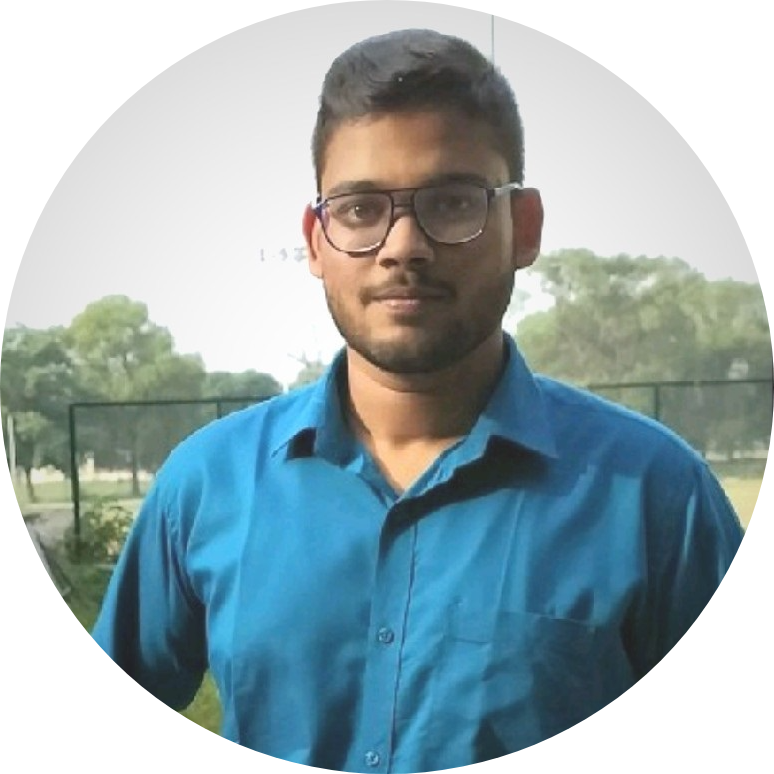
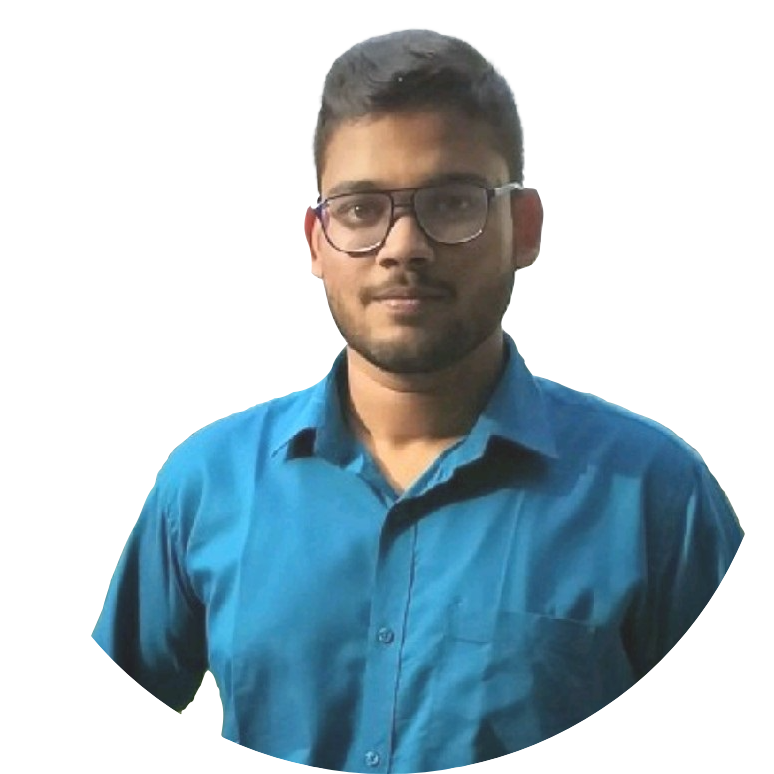
About me section Update

diff --git a/index.html b/index.html
@@ -142,7 +142,22 @@
     <section id="about-me">
         <div class="about-header">
             <h1>About Me</h1>
-            <div class="about-me-dec"><hr><i class="fas fa-star fa-2x" style="color: yellow;"></i><hr></div>
+            <div class="about-me-dec"><hr> <i class="fas fa-star fa-2x" style="color: rgb(255, 81, 0);"></i> <hr></div>
+        </div>
+        <div class="about-me-contents">
+            <img src="images/Mohim Singla.png" alt="">
+            <div class="about-me-textbox">
+                I am Mohim Singla, a hard-working guy currently pursuing my Bachelor's at <a href="https://pec.ac.in/">PEC, Chandigarh</a>. I'm aspiring to be a software developer and want to contribute to the IT industry as much as I'll be able in the upcoming years. I'm good at staying cool during intense situations and never show my back towards challenges. The best part about me is being Honest and taking up responsibilities of my actions. Well!!! last but not the least I'm a good listner and a polite person to be around.
+                <br>
+                <a href="https://github.com/Mohim-Singla"><i class="fab fa-github fa-2x"></i></a>
+                <a href="https://www.linkedin.com/in/mohim-singla-777b291a4"><i class="fab fa-linkedin fa-2x"></i></i></a>
+                <a href="mailto:mohimsingla@gmail.com"><i class="fab fa-google fa-2x"></i></a>
+                <a href="https://instagram.com/mohim__singla__/"><i class="fab fa-instagram fa-2x"></i></a>
+                <br>
+                <div class="intro intro1">
+                    <a href="#void" class="intro-button-2">| Contact Me |</a>
+                </div>
+            </div>
         </div>
     </section>
     <script src="https://ajax.googleapis.com/ajax/libs/jquery/3.2.1/jquery.min.js"></script>

diff --git a/about-me.css b/about-me.css
@@ -1,3 +1,74 @@
 #about-me{
     background: url('images/aboutbg.png') center no-repeat;
+    text-align: center;
+}
+.about-header h1{
+    font-size: 48px;
+    color: rgb(1, 119, 119);
+    padding-top: 3%;
+}
+.about-me-dec{
+    display: flex;
+    justify-content: center;
+    padding-bottom: 2%;
+}
+.about-header hr{
+    display: inline-block;
+    width: 20%;
+    height: 5px;
+    background:linear-gradient(rgba(255, 81, 0,0.7), rgba(9, 13, 31, 0.103));
+    align-self: center;
+}
+.about-me-contents{
+    display: flex;
+    align-items: center;
+    justify-content: space-evenly;
+    font-size: 25px;
+    text-align: justify;
+    text-align-last: center;
+    padding: 3%;
+    text-decoration: none;
+}
+a{
+    text-decoration: none;
+}
+.about-me-textbox{
+    color: darkorange;
+    font-weight: 500;
+    padding: 2%;
+    line-height: 30pt;
+}
+.about-me-contents img{
+    width: 40%;
+    padding: 2%;
+}
+.fab{
+    padding: 2%;
+}
+.intro1{
+    position: relative;
+}
+.intro-button-2{
+    display: inline-block;
+    text-decoration: none;
+    padding: 12px 13px;
+    margin: 0.7%;
+    background: transparent;
+    border: 3px solid #fff;
+    color: deepskyblue;
+}
+.intro-button-2:hover{
+    border: 2px solid tomato;
+    background: floralwhite;
+    transition: 0.5s ease-in;
+    color: forestgreen;
+}
+
+@media screen and (max-width: 500px) {
+    .about-me-contents{
+        flex-direction: column;
+    }
+    .about-me-textbox{
+        line-height: 20pt;
+    }
 }
